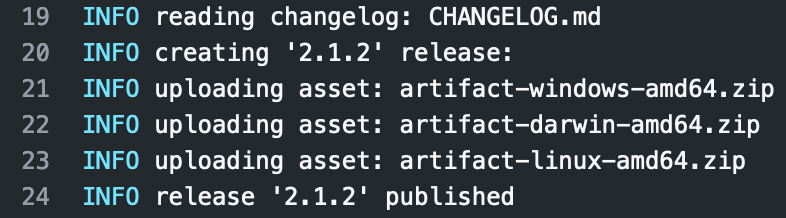
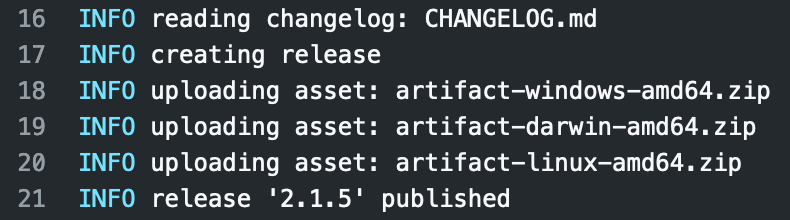
chore: promote to v1

diff --git a/README.md b/README.md
@@ -13,7 +13,7 @@ A GitHub Action for creating a new GitHub Release with Assets and Changelog when
 ## Manual:
 1. Add your changes to **CHANGELOG.md** in the following format (according to [keepachangelog.com](https://keepachangelog.com/en/1.0.0/ "Keep a ChangeLog")):
 ```
-## [2.1.2] - 2019-10-01
+## [2.1.5] - 2019-10-01
 ### Added
 - Feature 1.
 - Feature 2.
@@ -31,30 +31,30 @@ A GitHub Action for creating a new GitHub Release with Assets and Changelog when
 ![PIC](docs/images/log.png)
 
 ## Configuration:
-1. Create a GitHub **Personal Access Token** with **Full control of private repositories** permission, add it as a Secret to target repository.
-2. Change the workflow to be triggered on Tag Push:
+1. Change the workflow to be triggered on Tag Push:
 ```
 on:
   push:
     tags:
     - '*'
 ```
-or
+or with `v` prefix:
 ```
 on:
   push:
     tags:
     - 'v*'
 ```
-3. Add Release stage to your workflow:
-   - Provide GITHUB_TOKEN from step 1.
-   - DRAFT_RELEASE and PRE_RELEASE are optional, assumed **false** if not set.
-   - Provide a list of assets as **args**
+2. Add Release stage to your workflow:
+    - **Optional**: Provide a list of assets as **args**
+    - **Optional**: `DRAFT_RELEASE: "true"/"false"` - Save release as draft instead of publishing it.
+    - **Optional**: `PRE_RELEASE: "true"/"false"` - GitHub will point out that this release is identified as non-production ready. 
+    - **Optional**: `CHANGELOG_FILE: "true"/"false"` - Changelog filename (default `CHANGELOG.md`)
 ```
     - name: Release
-      uses: anton-yurchenko/git-release@master
+      uses: anton-yurchenko/git-release@v1
       env:
-        GITHUB_TOKEN: ${{ secrets.GH_TOKEN }}
+        GITHUB_TOKEN: ${{ secrets.GITHUB_TOKEN }}
         DRAFT_RELEASE: "false"
         PRE_RELEASE: "false"
         CHANGELOG_FILE: "CHANGELOG.md"

diff --git a/CHANGELOG.md b/CHANGELOG.md
@@ -1,3 +1,7 @@
+
+## [1.0.0] - 2019-10-01
+- First stable release.
+
 ## [0.2.1] - 2019-10-01
 ### Fixed
 - Wrong PRE_RELEASE message when set.
